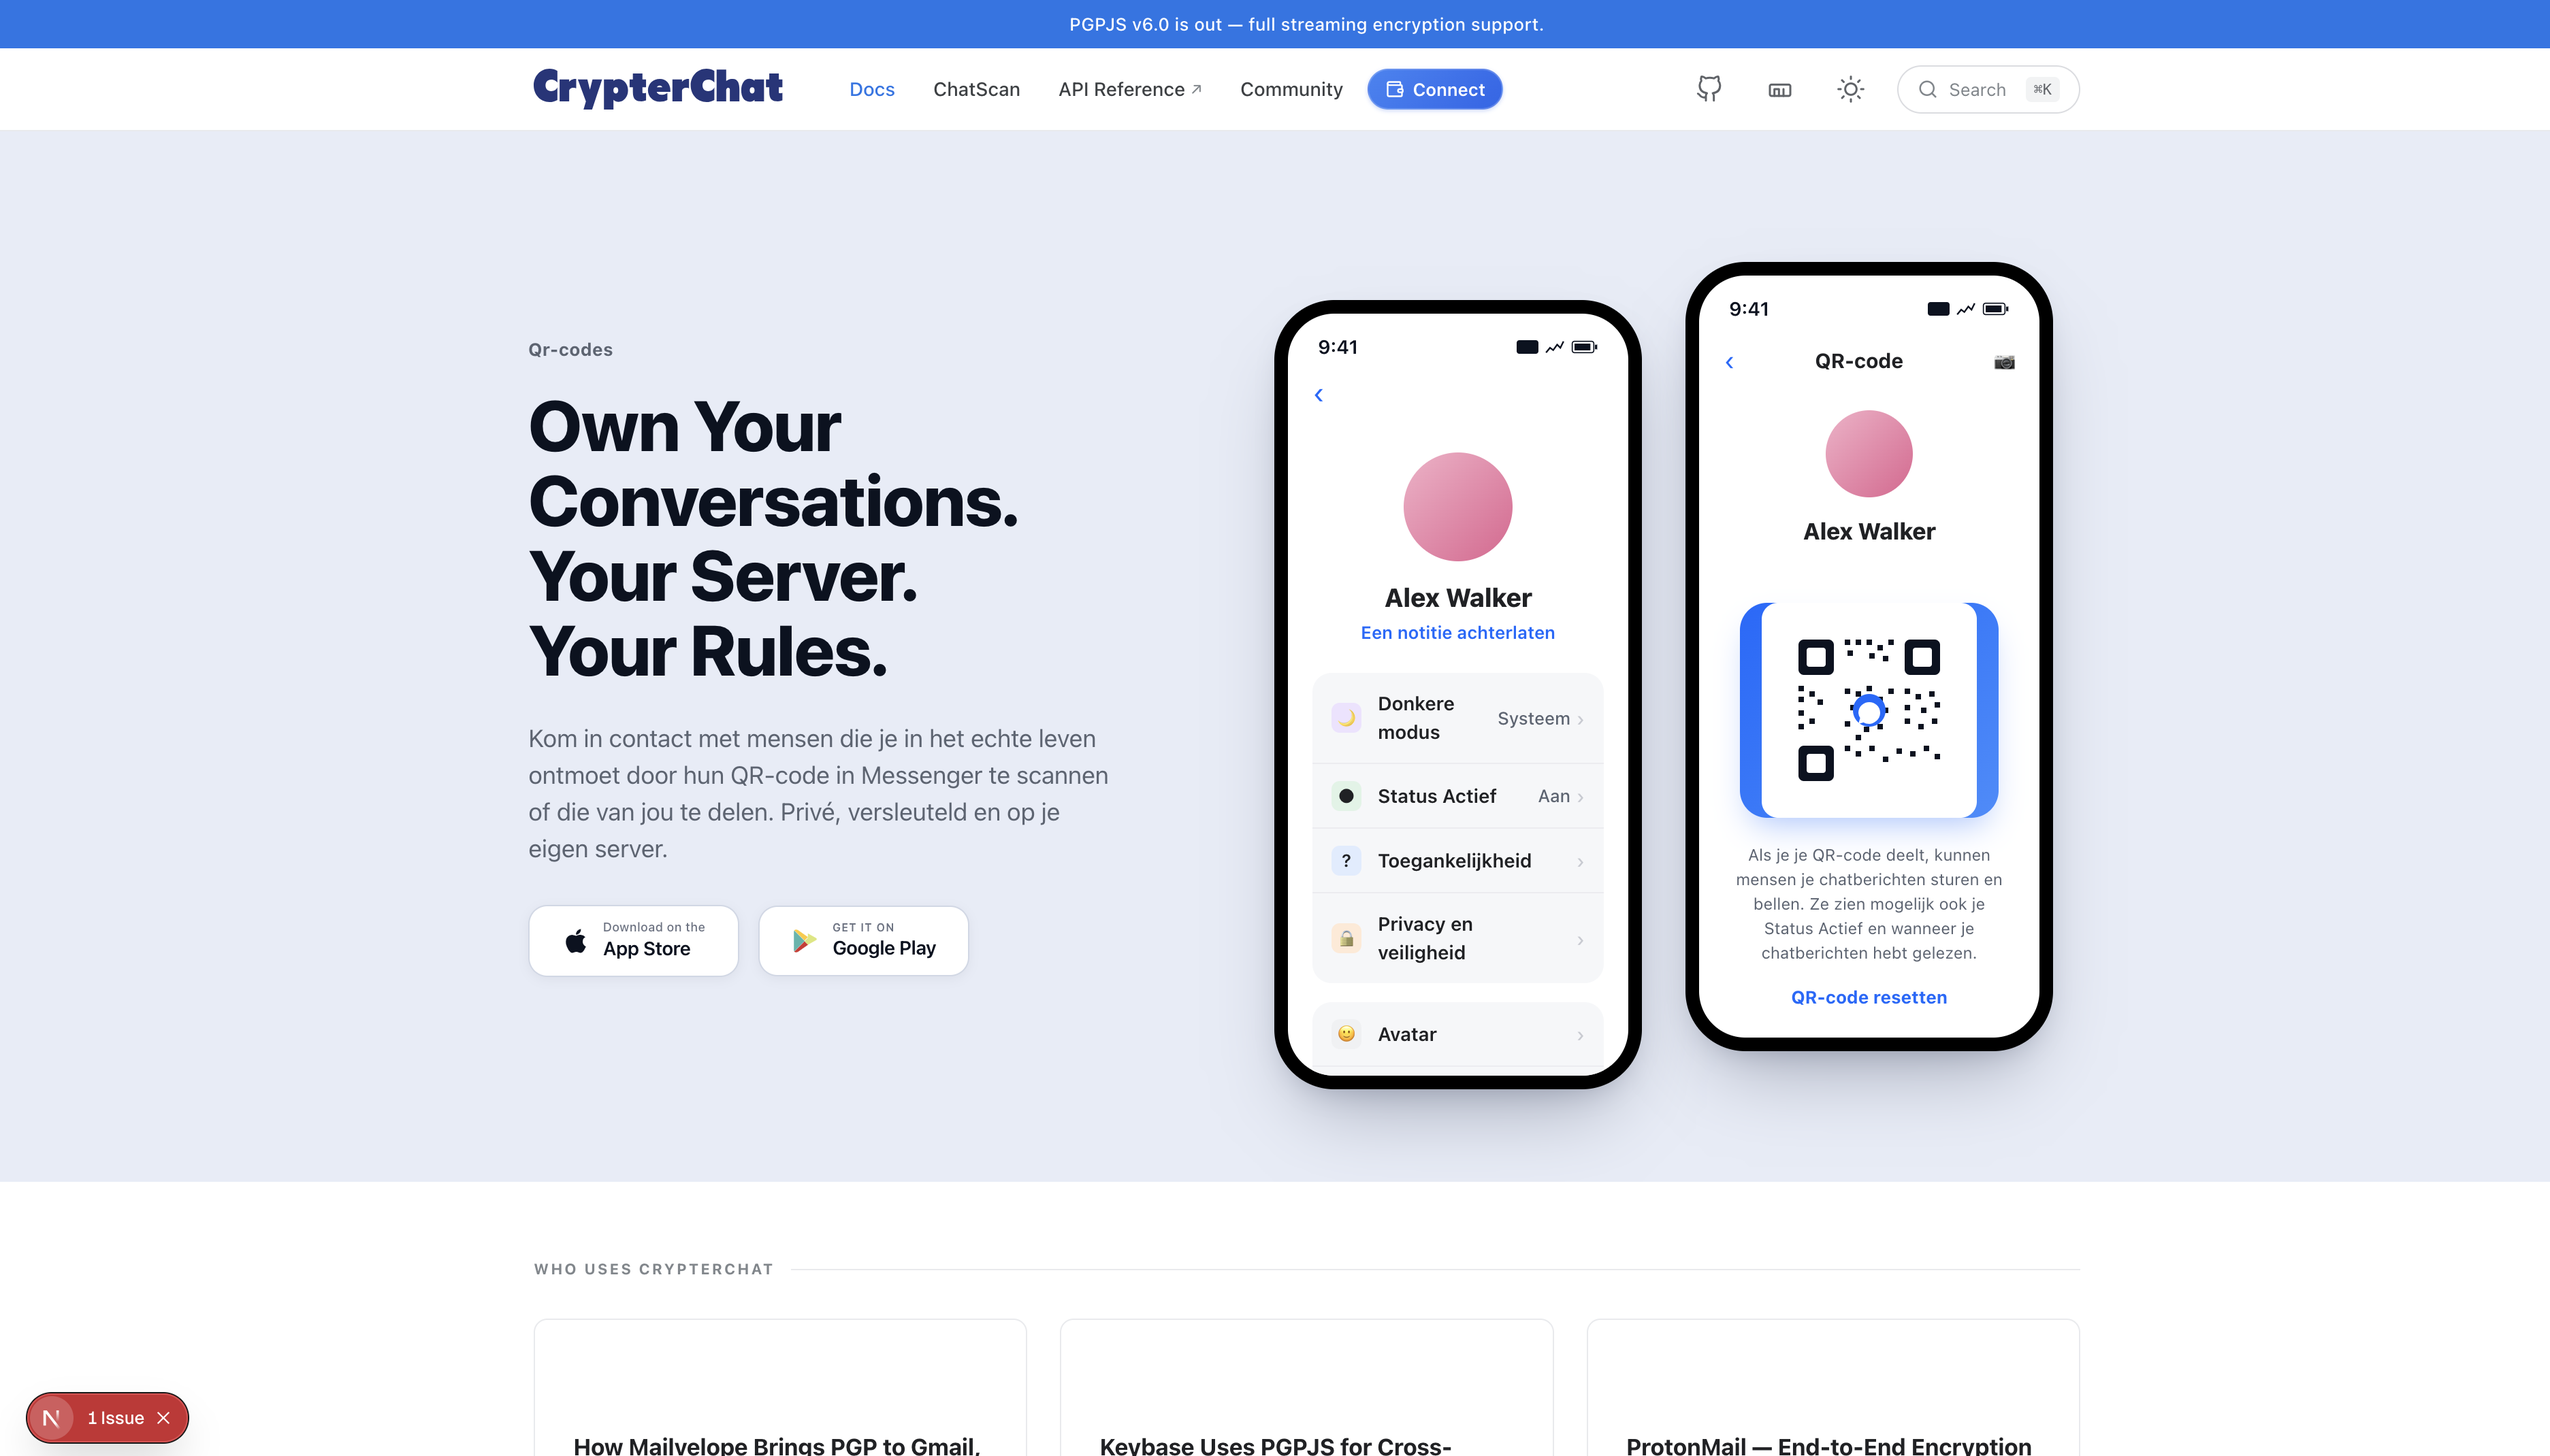
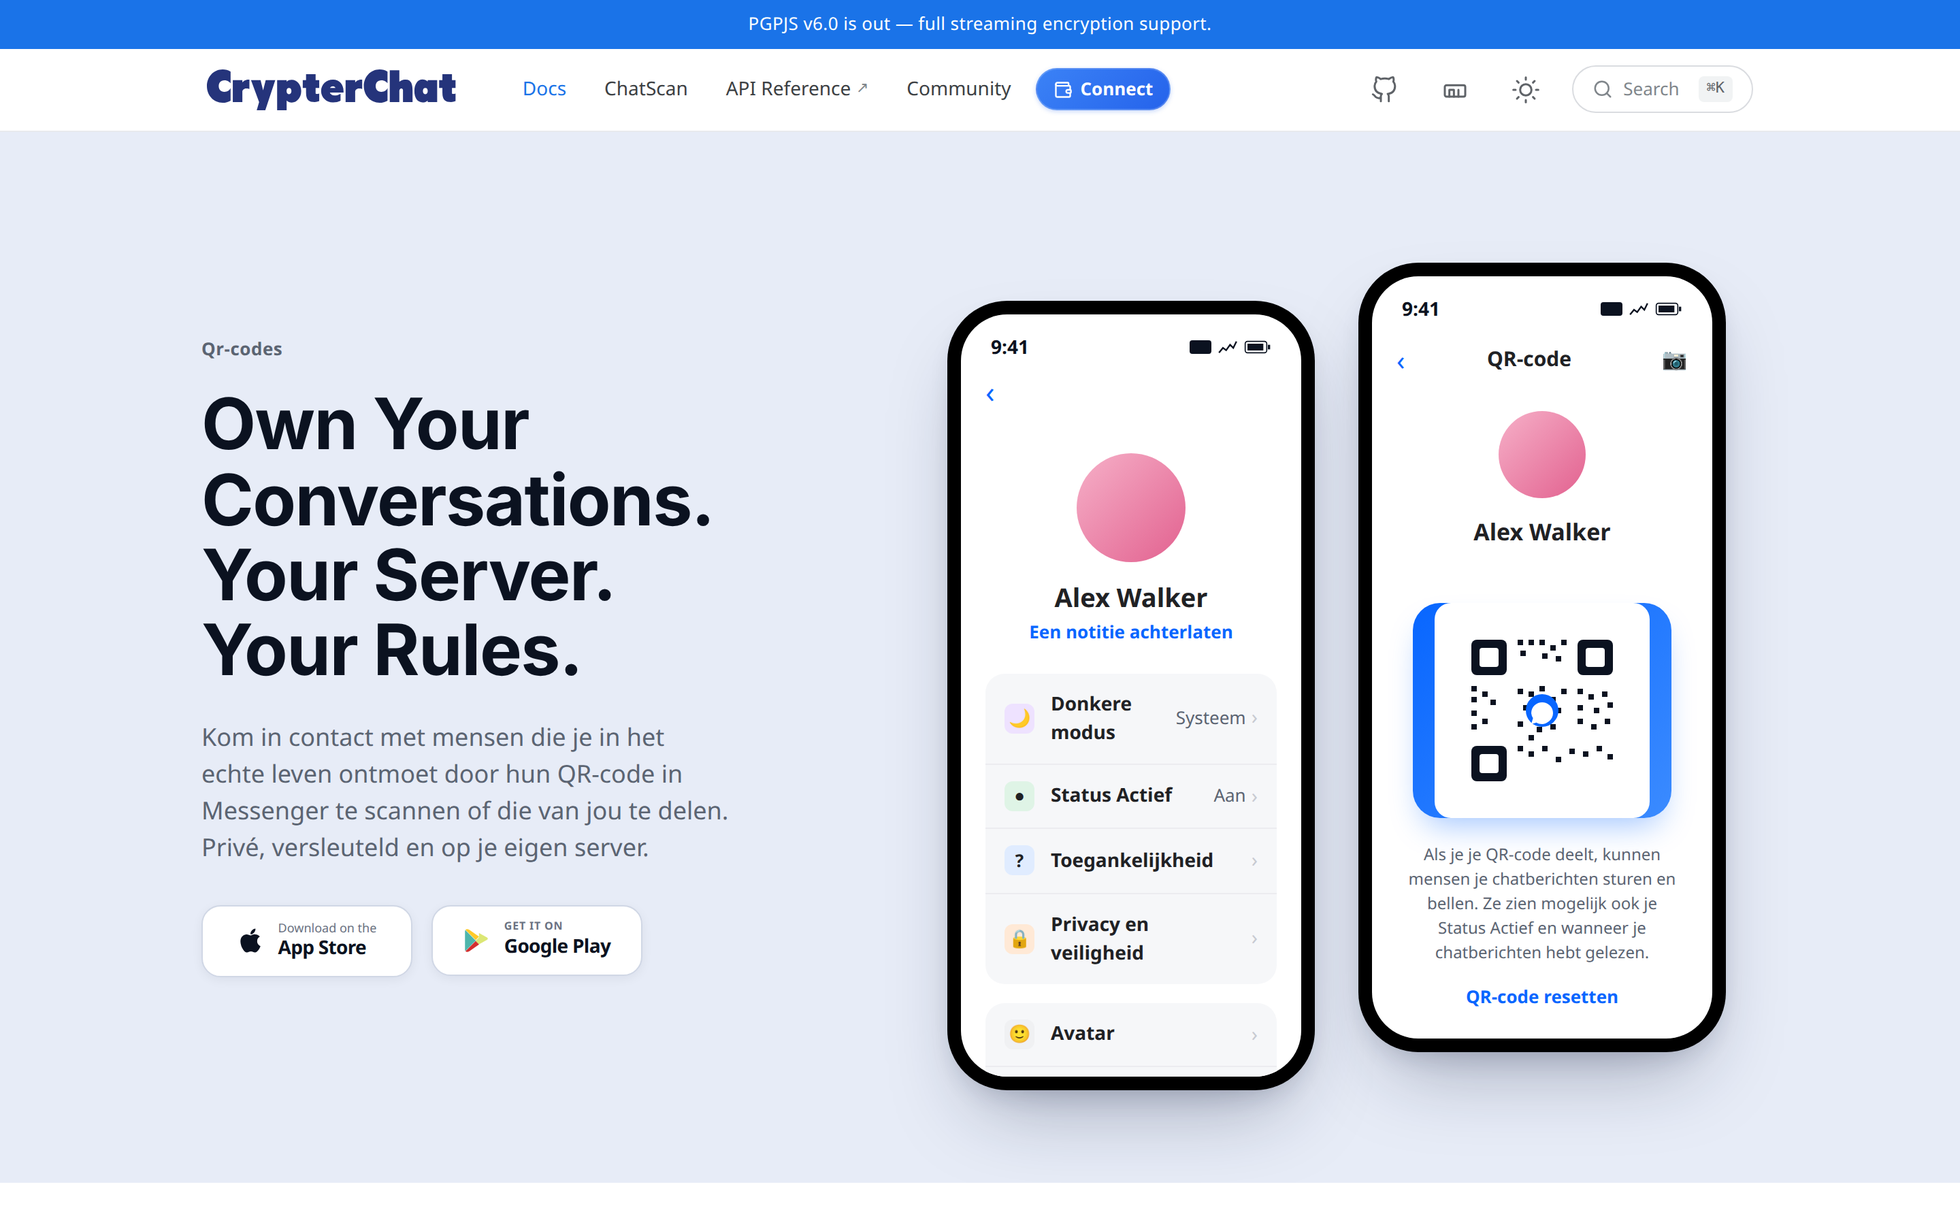
feat: refresh homepage and landing screenshots
Capture live / and /landing shots into docs/screenshots, add a
capture-homepages script, and complete CMS seed so the homepage
renders with announcement bar, nav, and code snippet content.

diff --git a/payload.config.ts b/payload.config.ts
@@ -82,6 +82,42 @@ export default buildConfig({
         }
       }
 
+      // Seed Announcement Bar
+      const announcementConfig = await payload.findGlobal({ slug: 'announcement-bar' });
+      if (!announcementConfig?.content) {
+        await payload.updateGlobal({
+          slug: 'announcement-bar',
+          data: {
+            enabled: true,
+            content: {
+              root: {
+                type: 'root',
+                children: [
+                  {
+                    type: 'paragraph',
+                    children: [
+                      {
+                        type: 'text',
+                        text: 'PGPJS v6.0 is out — full streaming encryption support.',
+                        version: 1,
+                      },
+                    ],
+                    direction: 'ltr',
+                    format: '',
+                    indent: 0,
+                    version: 1,
+                  },
+                ],
+                direction: 'ltr',
+                format: '',
+                indent: 0,
+                version: 1,
+              },
+            },
+          },
+        });
+      }
+
       // Seed Navigation
       const navConfig = await payload.findGlobal({ slug: 'navigation' });
       if (!navConfig?.links || navConfig.links.length === 0) {
@@ -89,12 +125,10 @@ export default buildConfig({
           slug: 'navigation',
           data: {
             links: [
-              { label: 'About', url: '/about' },
-              { label: 'Blog', url: '/blog' },
-              { label: 'Careers', url: '/careers' },
-              { label: 'Documentation', url: '/docs' },
-              { label: 'API Reference', url: '/login' },
-              { label: 'Tutorials', url: '/tutorials' }
+              { label: 'Docs', url: '/docs' },
+              { label: 'ChatScan', url: '/chatscan' },
+              { label: 'API Reference', url: '/login', isExternal: true },
+              { label: 'Community', url: '/blog' },
             ],
             githubUrl: 'https://github.com/pgpjs',
             npmUrl: 'https://www.npmjs.com/package/openpgp'
@@ -161,7 +195,17 @@ export default buildConfig({
               { number: '7.2K', label: 'GitHub stars' },
               { number: '100+', label: 'Contributors worldwide' },
               { number: 'v6.0', label: 'Latest stable release' }
-            ]
+            ],
+            codeSnippet: {
+              title: 'Run your own private chat server.',
+              body: 'CrypterChat is a secure blockchain messaging platform — inspired by WhatsApp, but built for real privacy, ownership and control. Self-host it in minutes.',
+              primaryBtnText: 'Deploy Your Server',
+              primaryBtnUrl: '/server',
+              secondaryBtnText: 'View Documentation',
+              secondaryBtnUrl: '/docs',
+              codeTitle: 'server.ts',
+              code: 'import { createServer } from "crypterchat"\n\nawait createServer({\n  port: 8443,\n  e2e: true,\n})',
+            },
           }
         });
       }
@@ -293,7 +337,7 @@ export default buildConfig({
   ],
   secret: process.env.PAYLOAD_SECRET || 'super-secret-key',
   db: postgresAdapter({
-    push: false,
+    push: process.env.PAYLOAD_PUSH === 'true',
     pool: {
       connectionString: process.env.DATABASE_URL || '',
     },

diff --git a/README.md b/README.md
@@ -40,7 +40,8 @@ Open [http://localhost:3000](http://localhost:3000).
 Regenerate screenshots and videos locally:
 
 ```bash
-npm run record-demo
+npm run capture-homepages   # home + landing into docs/screenshots
+npm run record-demo         # all pages + walkthrough video
 ```
 
 Outputs also land on your Desktop under `crypterchat-captures/`. Demo mode uses `?demo=1` so dashboard pages render without a real Firebase login.
